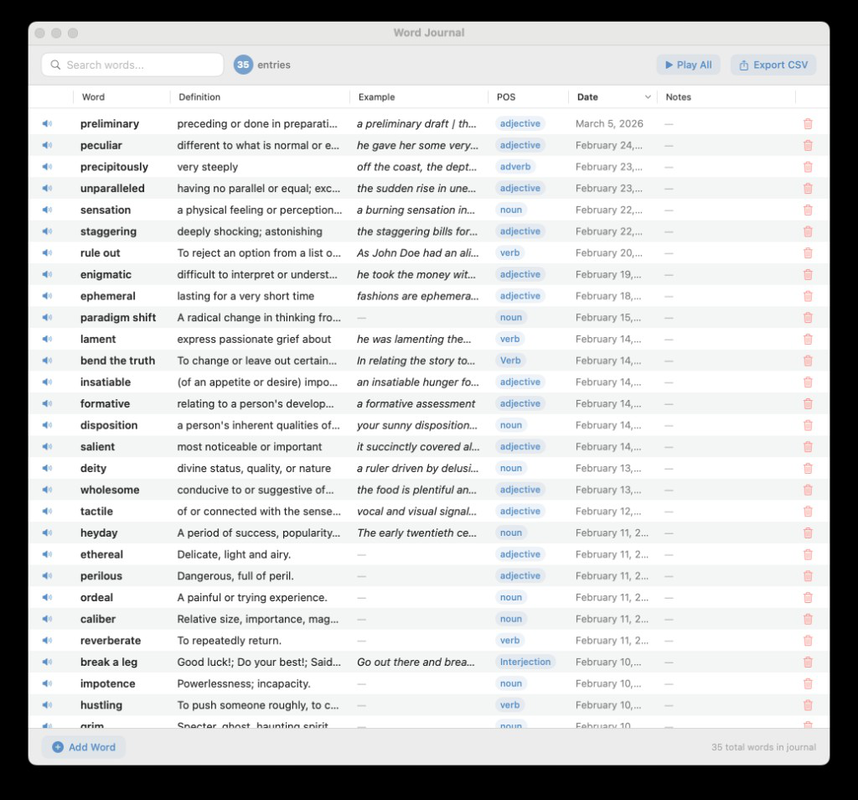
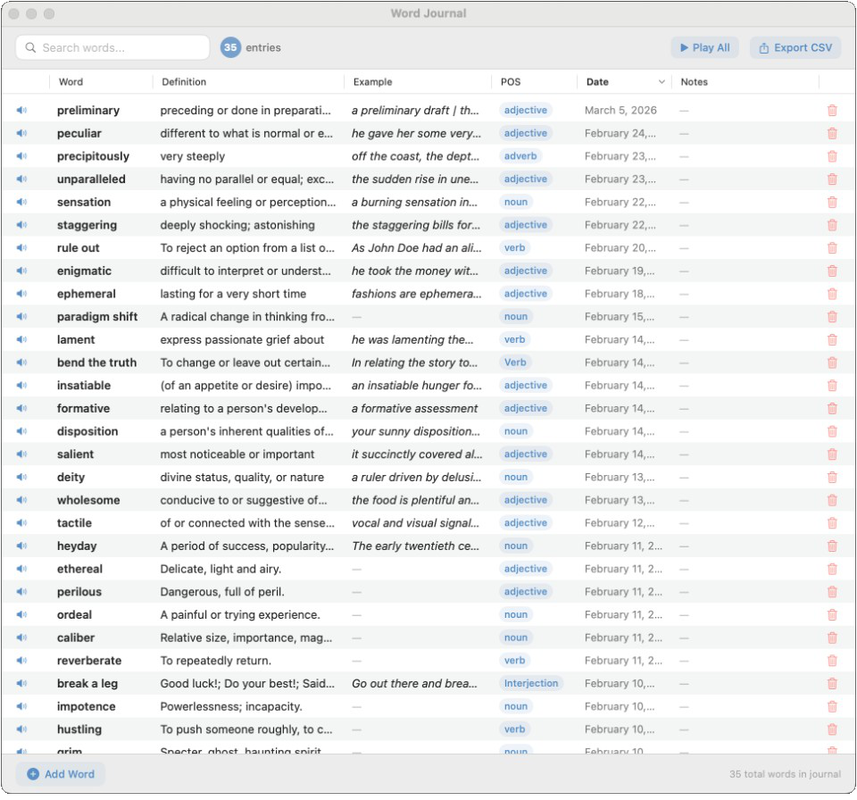
3 screenshots in one row, crop journal black background
Made-with: Cursor

diff --git a/docs/index.html b/docs/index.html
@@ -301,11 +301,8 @@
       max-width: 1000px;
       margin: 0 auto;
       display: grid;
-      grid-template-columns: 1fr 1fr;
+      grid-template-columns: 1fr 1fr 1fr;
       gap: 24px;
-    }
-    .screenshot-full {
-      grid-column: 1 / -1;
     }
     @media (max-width: 768px) {
       .screenshots { grid-template-columns: 1fr; }
@@ -460,7 +457,7 @@
         <figure class="screenshot">
           <img src="screenshots/menu-bar.png" alt="Menu bar — type a word or pick from recent">
         </figure>
-        <figure class="screenshot screenshot-full">
+        <figure class="screenshot">
           <img src="screenshots/journal.png" alt="Editable journal with search & sort">
         </figure>
       </div>
